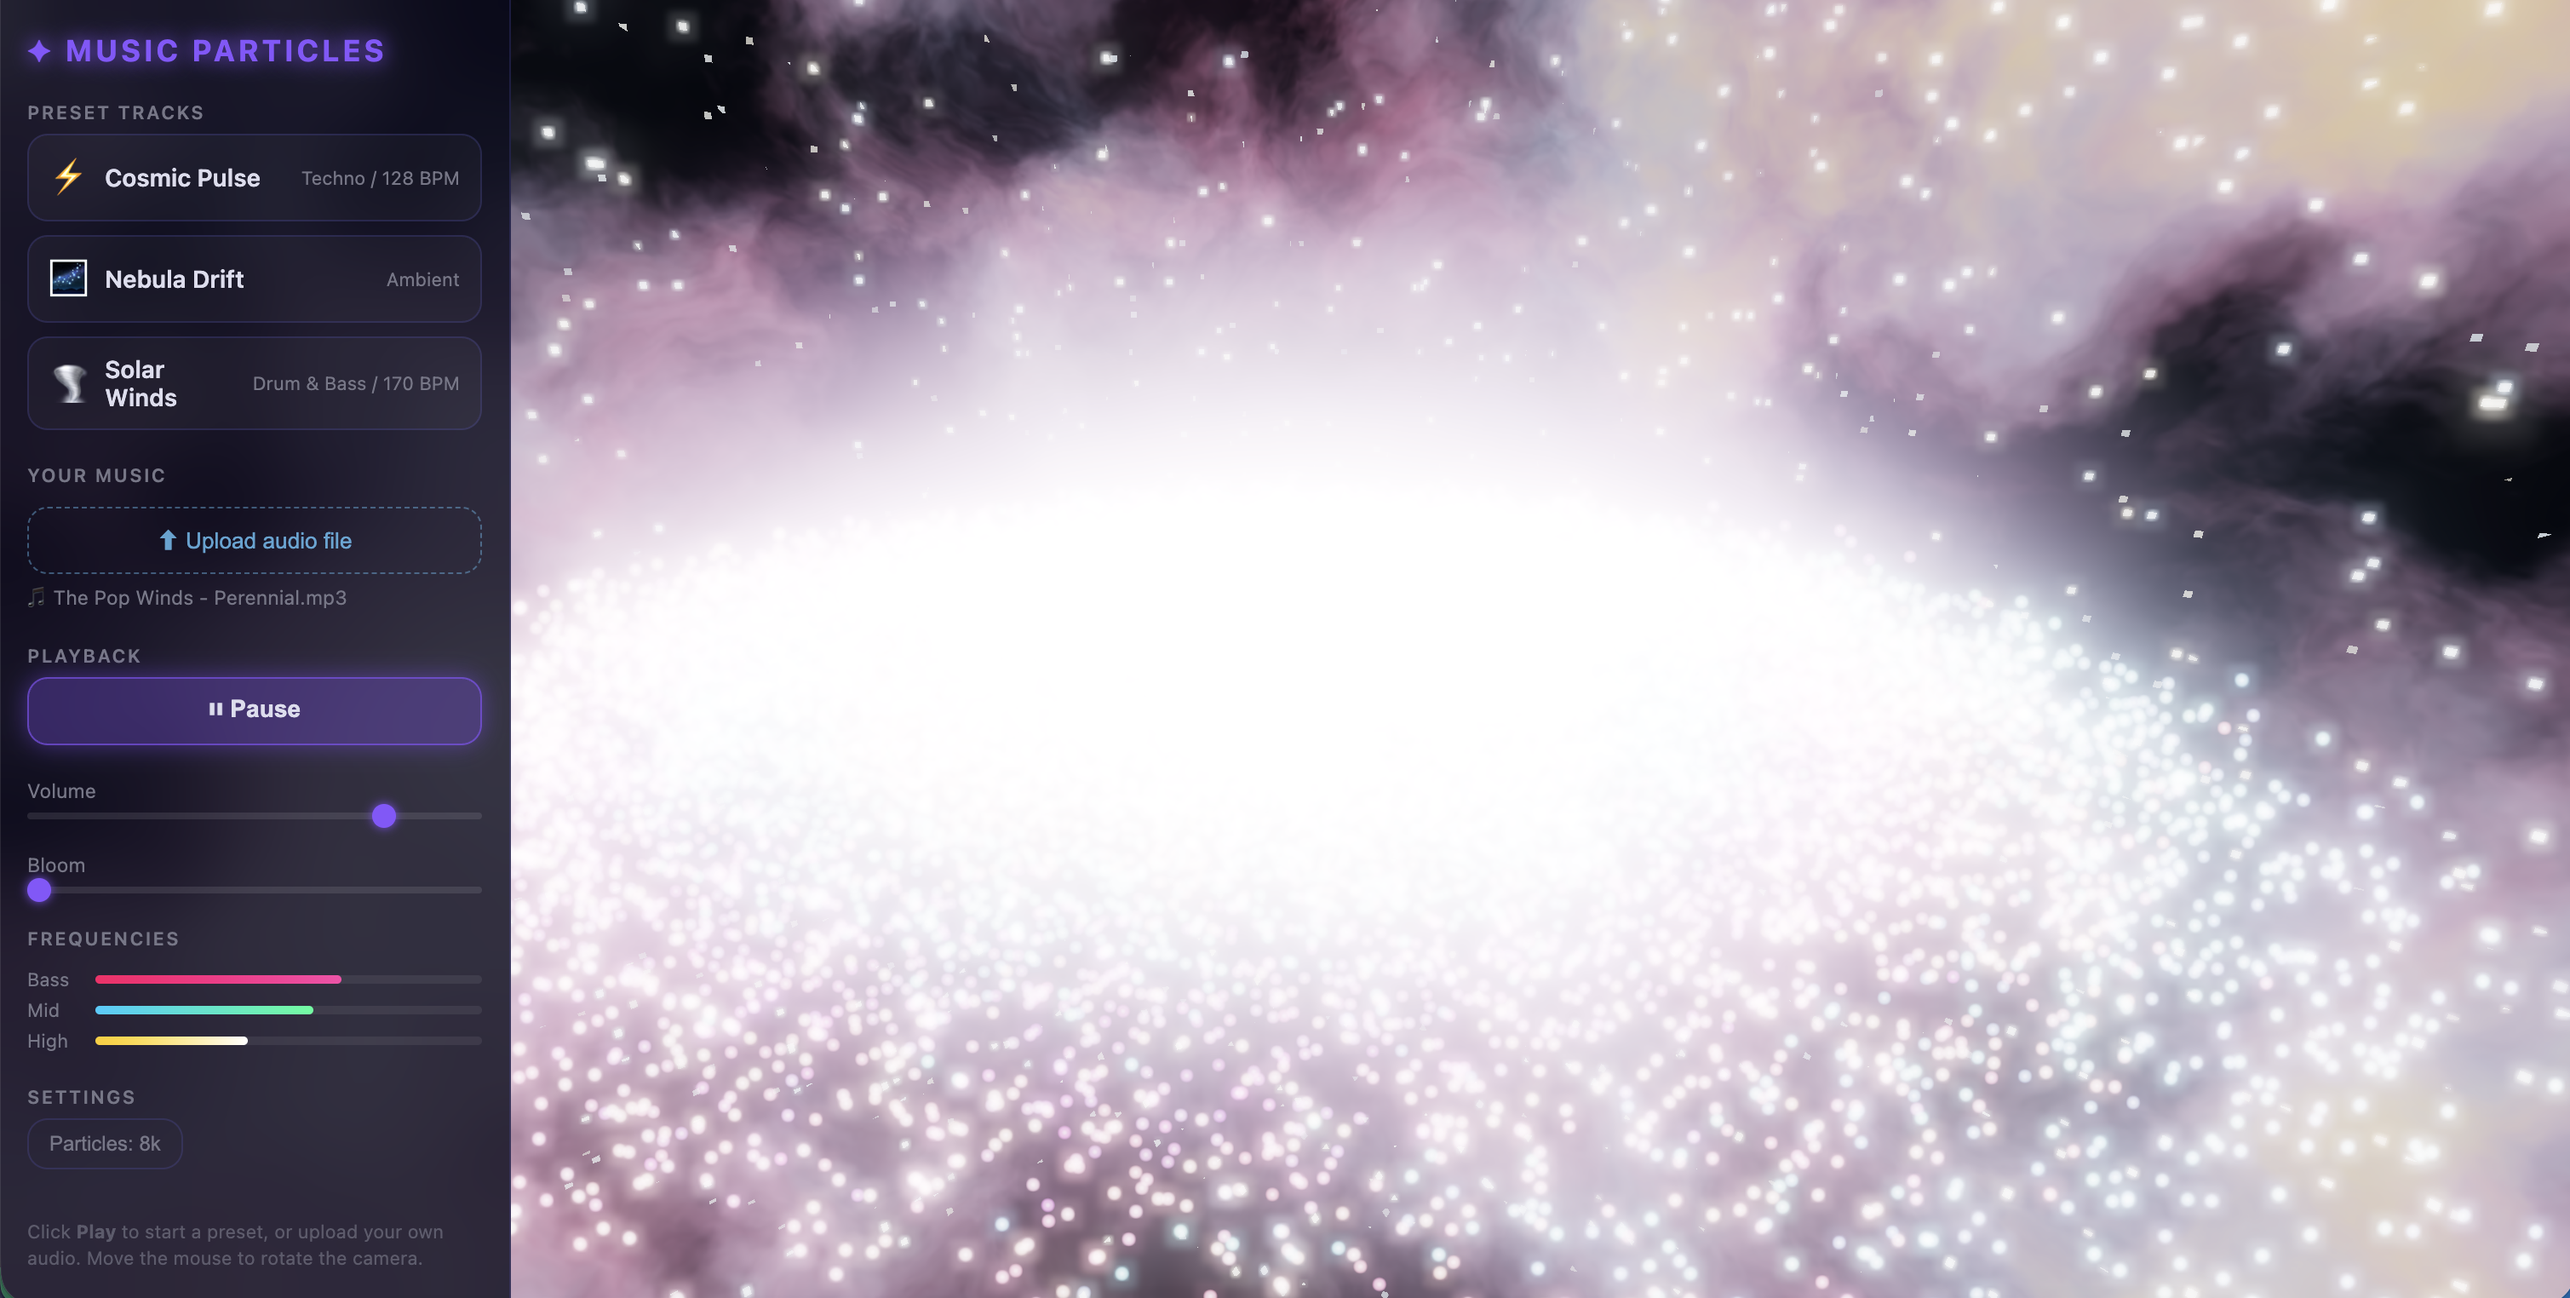
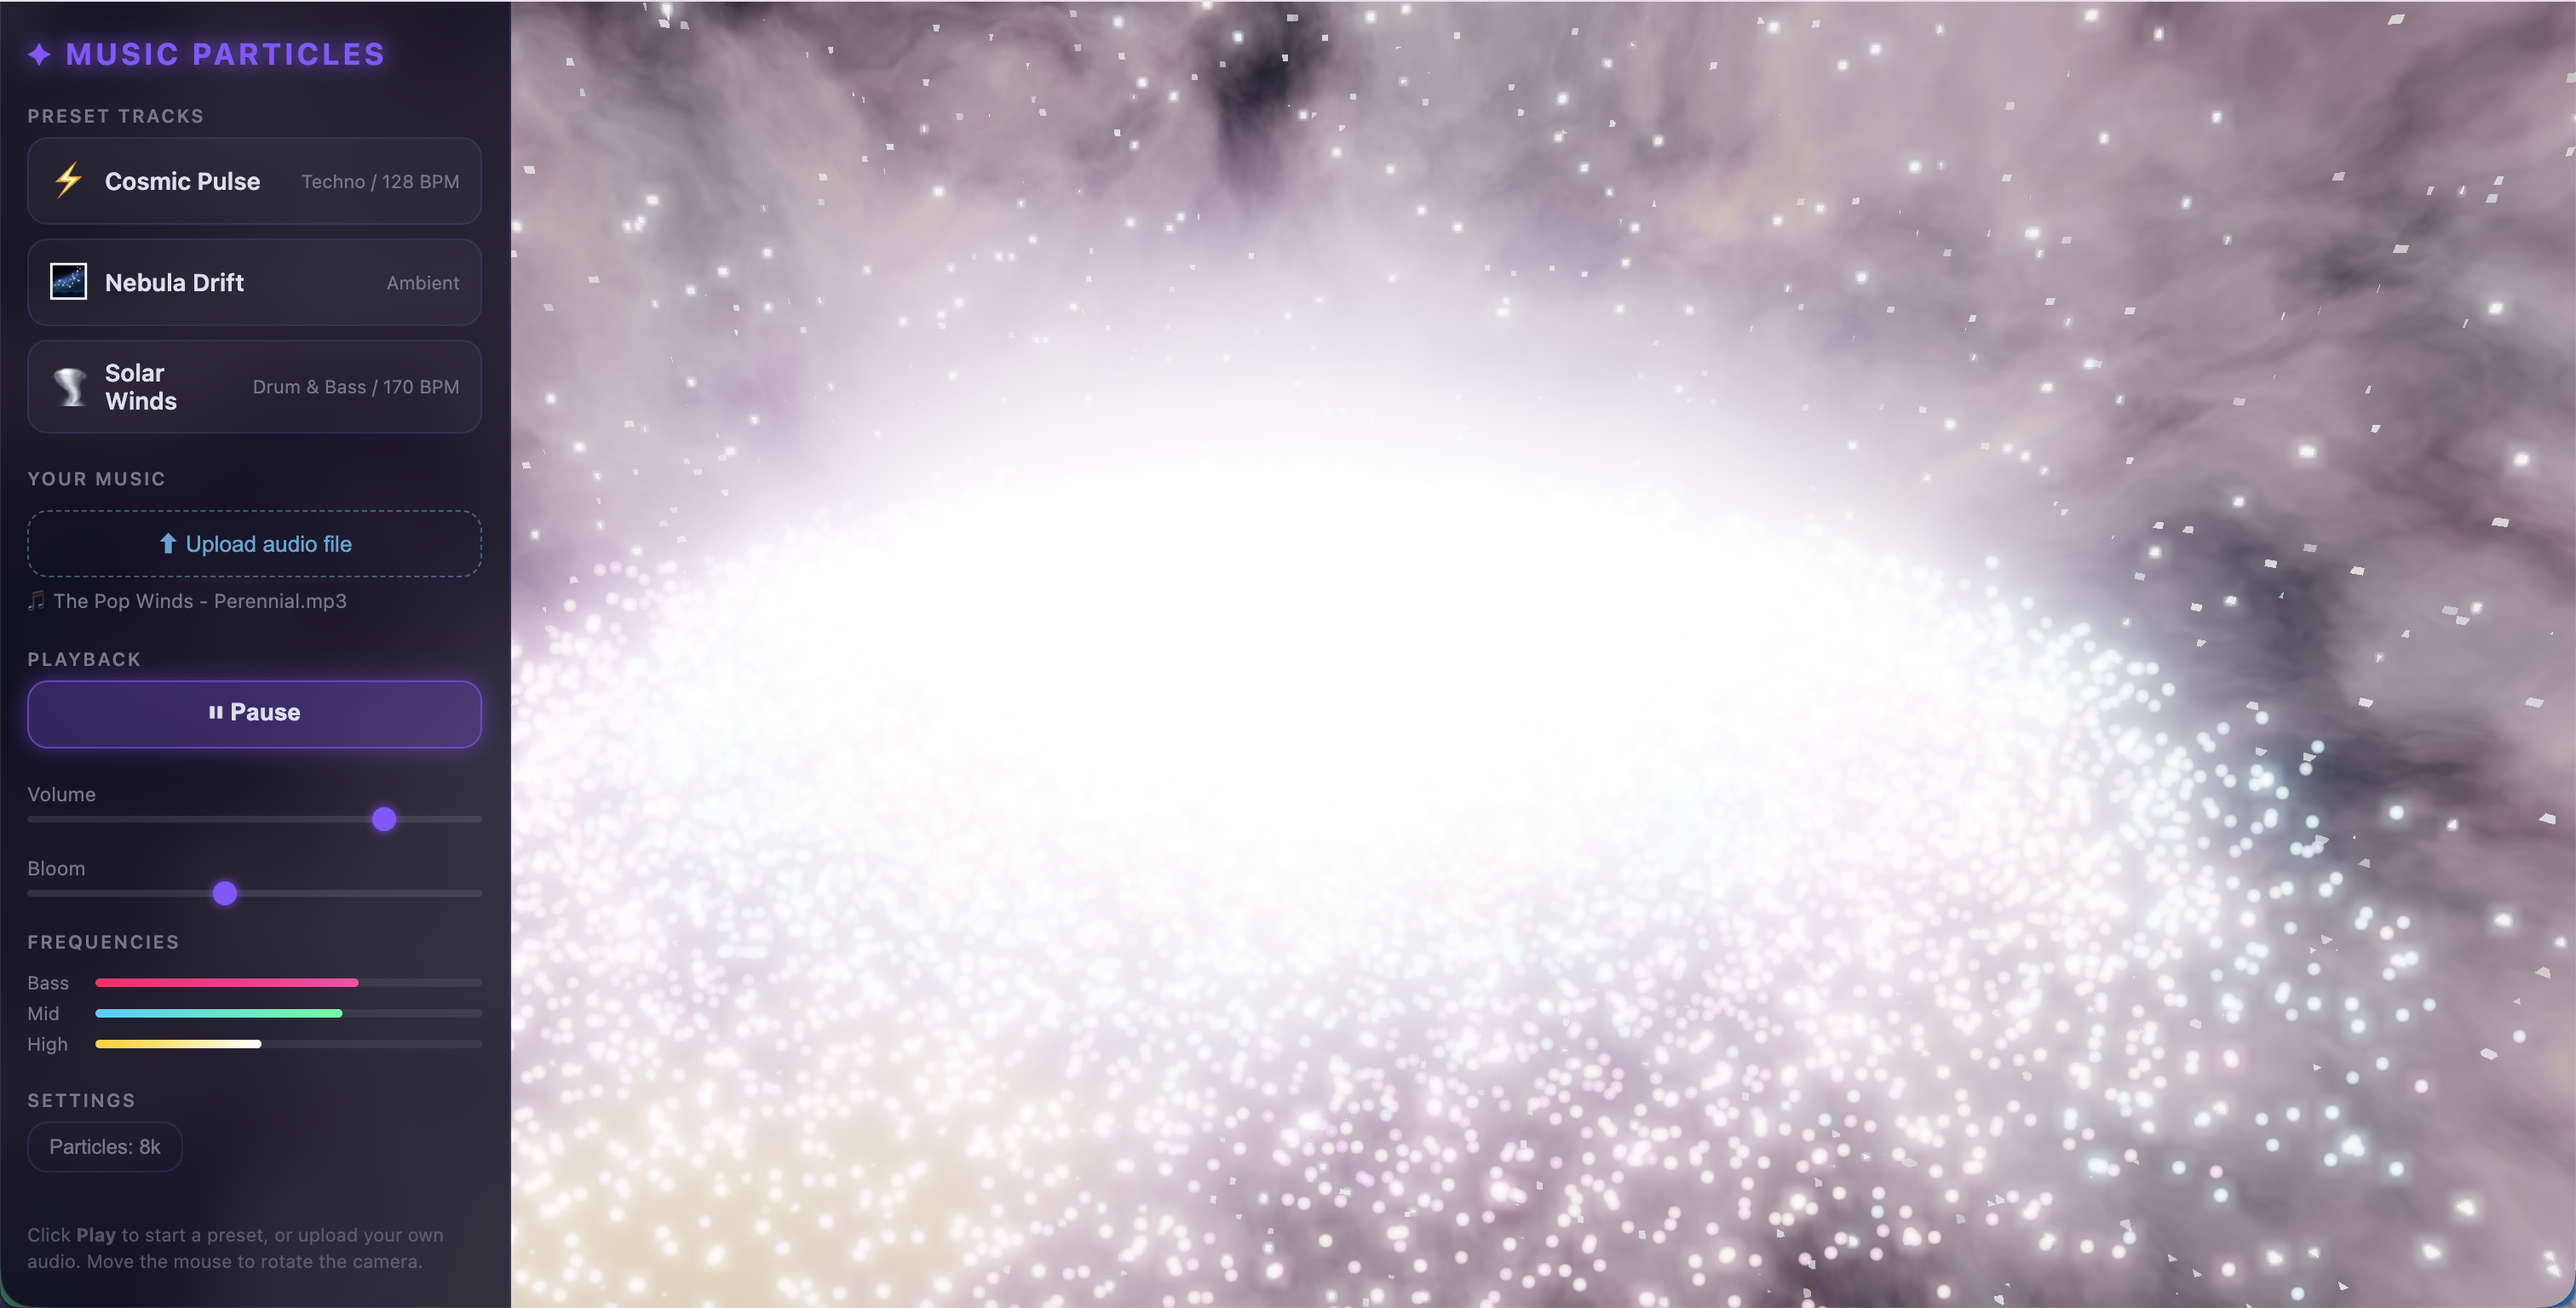
brightness adjusted

diff --git a/src/claudeService.js b/src/claudeService.js
@@ -43,7 +43,7 @@ Return ONLY a valid JSON object — absolutely no markdown, no code fences, no e
   "wispiness":       <0.0–1.0>,
   "starDensity":     <0.0–1.0>,
   "starBrightness":  <0.3–1.5>,
-  "energy":          <0.5–2.0>,
+  "energy":          <0.3–0.85>,
   "animSpeed":       <0.05–2.0>,
   "colorBias":       <0.0–1.0>
 }
@@ -56,7 +56,7 @@ Parameter guide — use the full range boldly:
 - wispiness: 0.0 = razor-sharp dramatic cloud edges with harsh contrast, 1.0 = soft diffuse organic mist
 - starDensity: 0.0 = empty void, 1.0 = densely packed starfield
 - starBrightness: star point intensity (0.3 = barely visible, 1.5 = brilliant blazing)
-- energy: overall luminosity (0.5 = dark moody underworld, 2.0 = supernova blinding brightness)
+- energy: overall luminosity (0.3 = dark moody underworld, 0.85 = vivid bright)
 - animSpeed: nebula drift (0.05 = geological stillness, 2.0 = fast turbulent churning)
 - colorBias: 0.0 = primaryColor dominates, 1.0 = secondaryColor dominates
 
@@ -65,7 +65,7 @@ Mandatory style targets — each must look nothing like the others:
 TECHNO / HIGH BPM (≥120 bpm):
   Tight swirling clouds (cloudScale 4.5–6.0), razor edges (wispiness 0.0–0.15),
   electric neon colors (hot magenta + electric cyan + white), dense stars,
-  blazing energy (1.6–2.0), fast animation (1.3–2.0)
+  vivid energy (0.75–0.85), fast animation (1.3–2.0)
 
 AMBIENT / CHILL:
   Vast misty formations (cloudScale 1.0–1.8), extremely wispy (0.75–1.0),
@@ -75,7 +75,7 @@ AMBIENT / CHILL:
 DRUM & BASS / VERY HIGH BPM (≥160 bpm):
   Streaky turbulent clouds (cloudScale 3.5–5.5), semi-sharp (wispiness 0.1–0.3),
   explosive warm colors (volcanic orange + deep crimson + solar gold),
-  dense bright stars, extreme energy (1.8–2.0), fast swirling animation (1.6–2.0)
+  dense bright stars, vivid energy (0.78–0.85), fast swirling animation (1.6–2.0)
 
 JAZZ / BLUES:
   Organic flowing clouds (cloudScale 2.0–3.5), medium wispiness (0.35–0.6),

diff --git a/src/NebulaApp.js b/src/NebulaApp.js
@@ -56,7 +56,7 @@ export class NebulaApp {
     this.composer.addPass(new RenderPass(this.scene, this.camera));
     this.bloomPass = new UnrealBloomPass(
       new THREE.Vector2(window.innerWidth, window.innerHeight),
-      0.55, 0.25, 0.6
+      0.55, 0.25, 0.85   // threshold 0.85: only the very brightest particle cores bloom
     );
     this.composer.addPass(this.bloomPass);
     this.composer.addPass(new OutputPass());
@@ -197,7 +197,7 @@ export class NebulaApp {
     this.camera.position.y = 6 + Math.sin(t * 0.04) * 2 - this._mouse.y * 1.5;
     this.camera.lookAt(0, 0, 0);
 
-    this.bloomPass.strength = 0.55 + this.audio.bass * 0.35;
+    this.bloomPass.strength = 0.28 + this.audio.bass * 0.14;
 
     if (this.ps) this.ps.update(dt, this.audio);
 

diff --git a/src/NebulaSkybox.js b/src/NebulaSkybox.js
@@ -201,7 +201,7 @@ export class NebulaSkybox {
     if (params.wispiness      !== undefined) s.wispiness      = params.wispiness;
     if (params.starDensity    !== undefined) s.starDensity    = params.starDensity;
     if (params.starBrightness !== undefined) s.starBrightness = params.starBrightness;
-    if (params.energy         !== undefined) s.energy         = params.energy;
+    if (params.energy         !== undefined) s.energy         = Math.min(params.energy, 0.85);
     if (params.colorBias      !== undefined) s.colorBias      = params.colorBias;
   }
 
